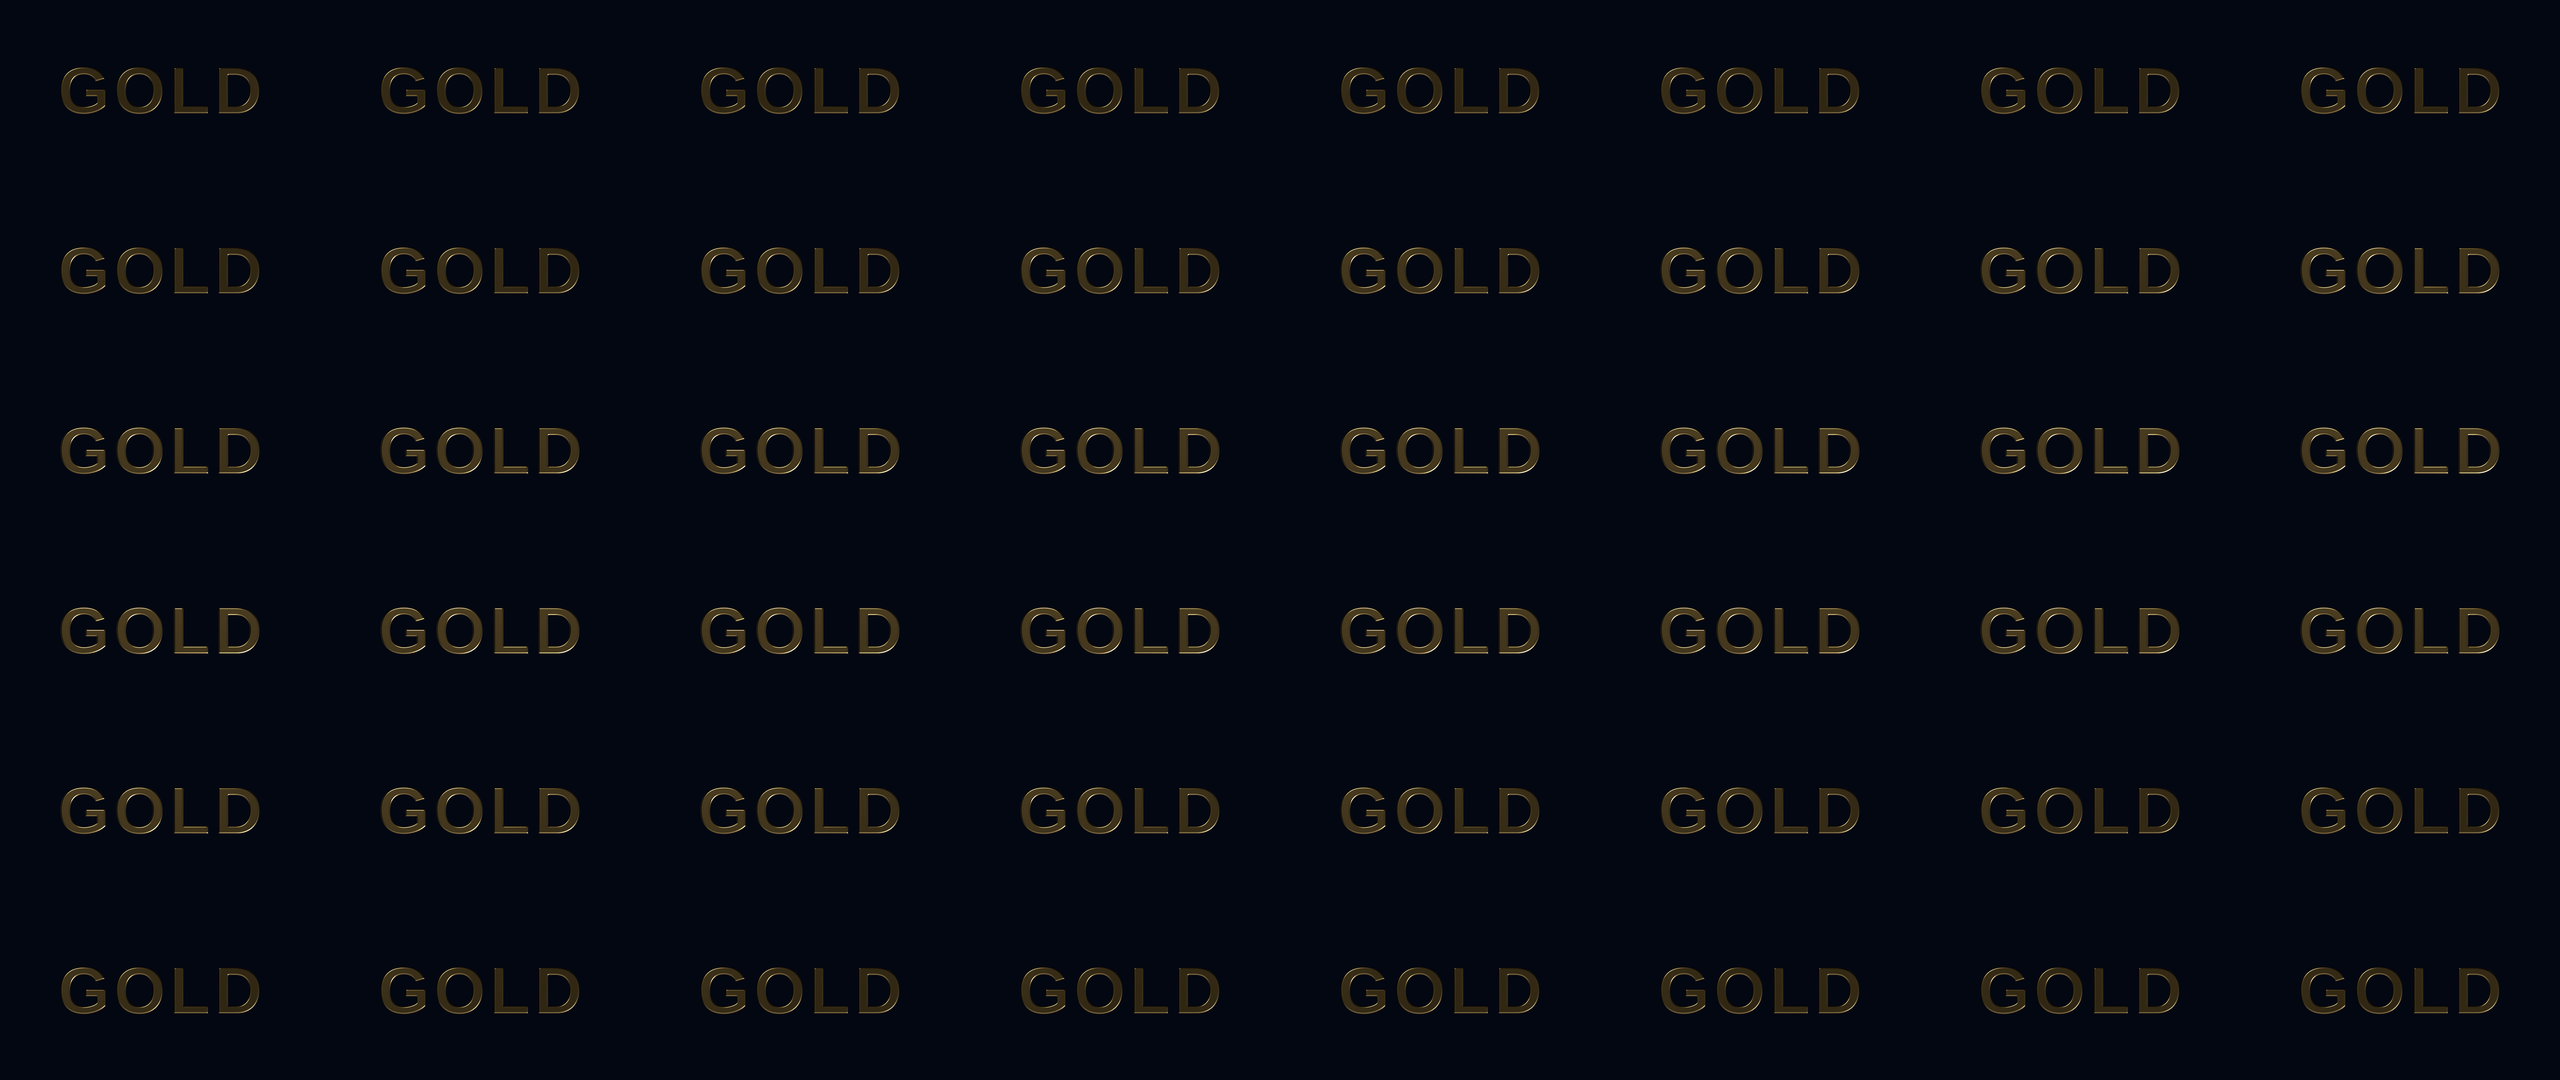
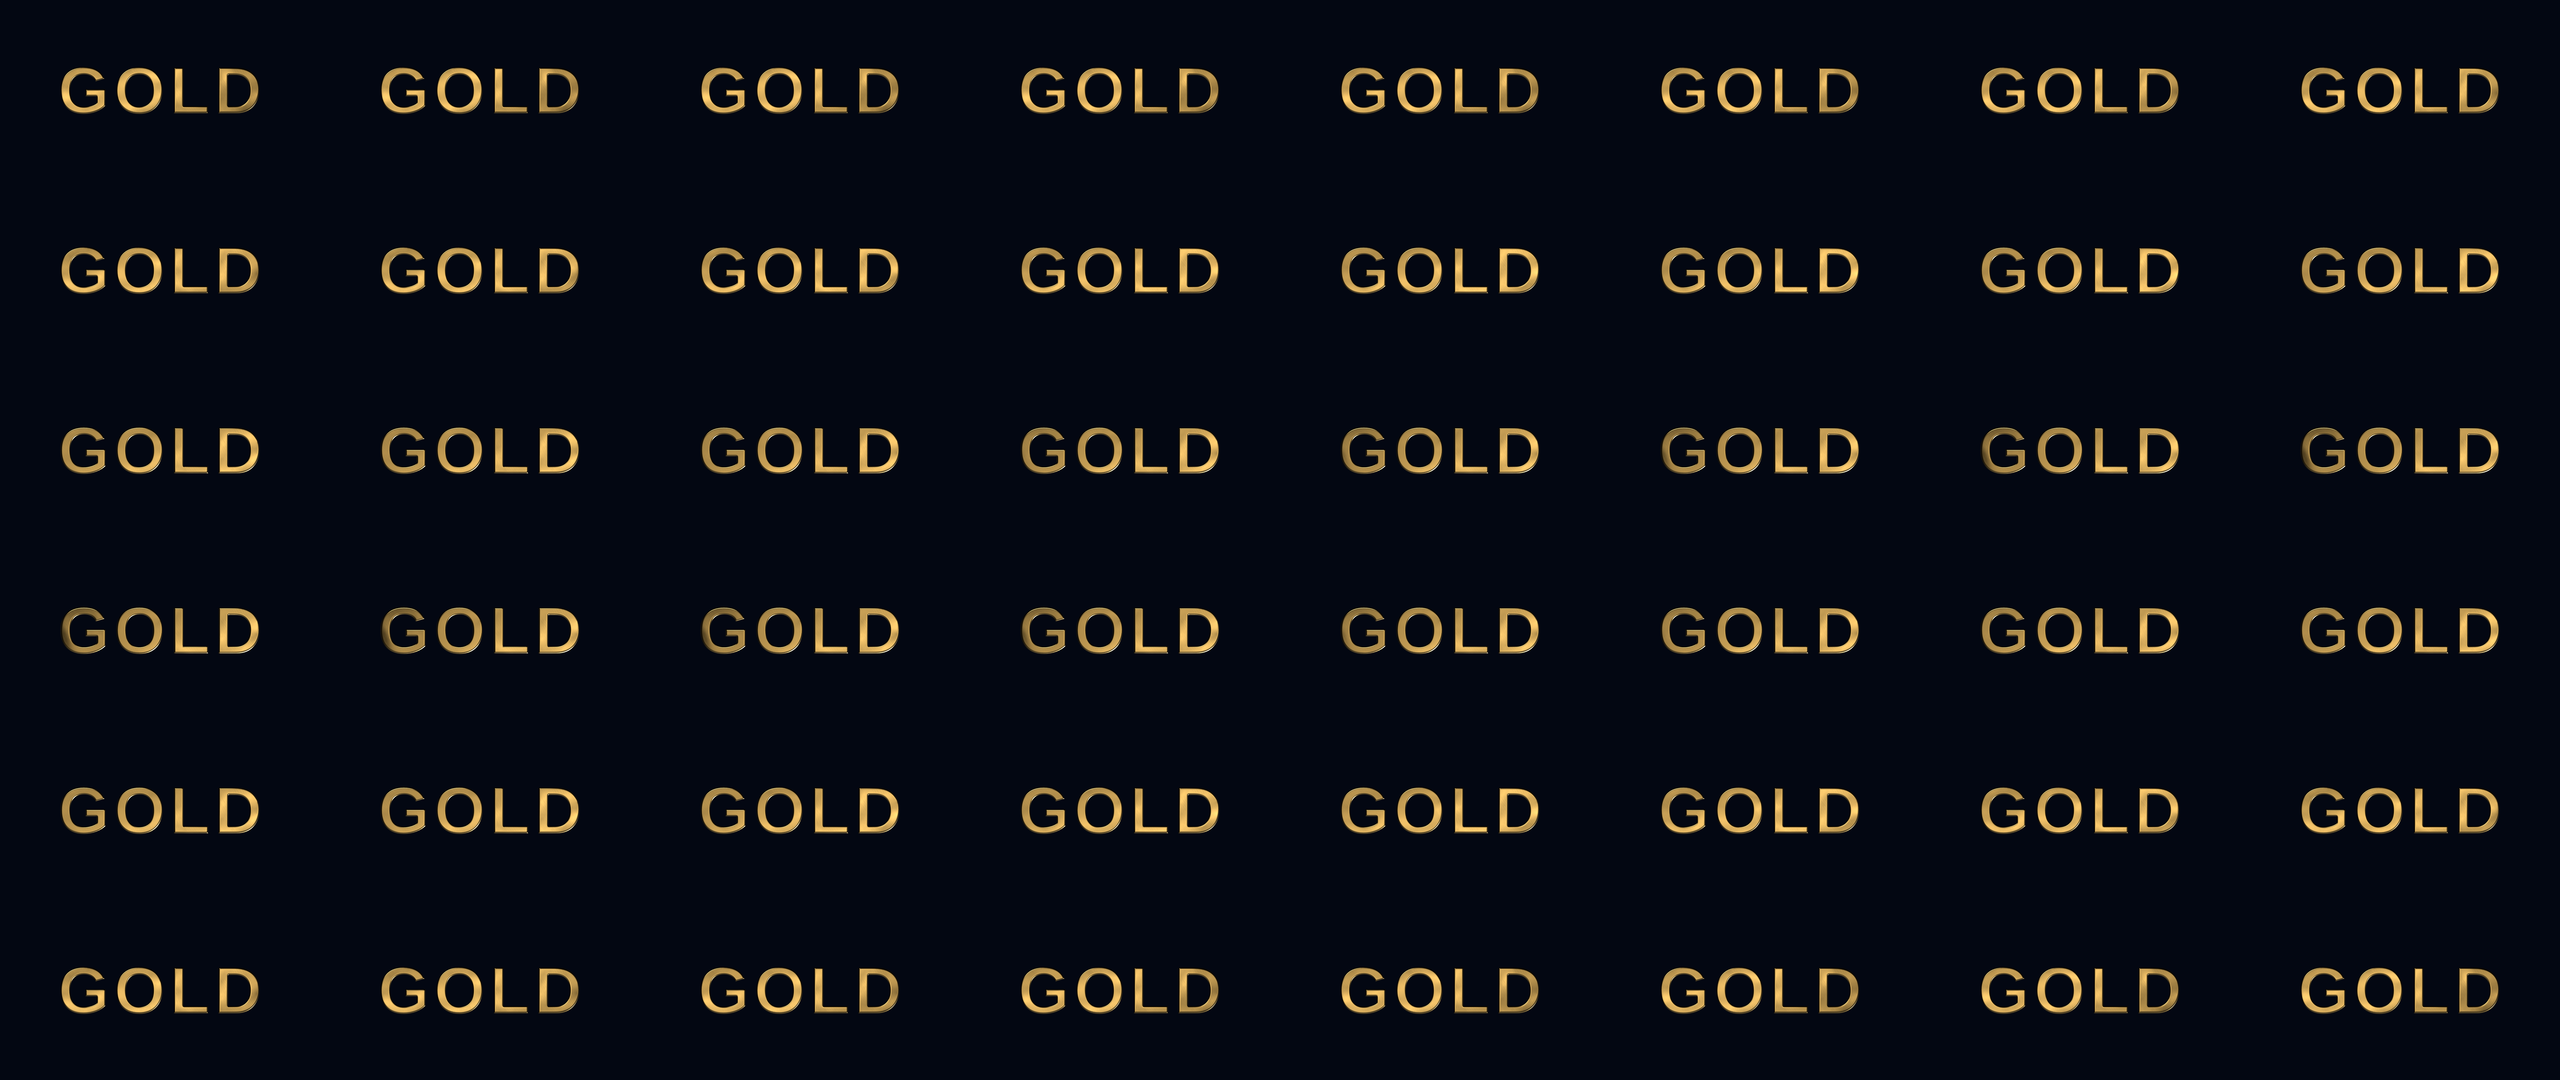
Make metal look like metal by default
A flat metal face mirrors one direction of its surroundings, and the
default studio put nothing bright there, so 2D metal titles had dark,
dull faces. Materials gain Ridges, Imperfections and Brush angle, the
finish plain 3D surfaces already had, shaded in the shared surface
code so looks on 3D text and shapes get them too. A strips studio of
eight tilted strip lights in a dim room gives metal something to
reflect. A new Material, the four metal starters and the library's
metal looks now use the strips with a brushed, lightly ridged and worn
surface, keeping each starter's roughness, grain and brushing so its
named finish stays. With the new settings at zero materials render
exactly as before, saved projects keep their studio, and library
samples of strip-lit metals are still rendered in the plain studio,
where the strips would show as a striped patch. The twelve showcase
previews that contain metal are regenerated.

diff --git a/crates/veylvik-document/src/presets/builtin/appearance.rs b/crates/veylvik-document/src/presets/builtin/appearance.rs
@@ -27,50 +27,53 @@ pub fn material_kind(id: &str) -> Option<MaterialKind> {
 }
 pub fn build(id: &str, b: &mut Builder, source: NodeId) -> Result<NodeId> {
     if let Some(kind) = material_kind(id) {
-        return surface(
-            b,
-            source,
-            crate::nodes::Material {
-                smooth_edges: true,
-                brushing: Default::default(),
-                colours: None,
-                optics: None,
-                studio: Default::default(),
-                kind,
-                scale: 180.0.into(),
-                bevel: 5.0.into(),
-                roughness: (match kind {
-                    MaterialKind::Gold => 0.18,
-                    MaterialKind::Silver => 0.18,
-                    MaterialKind::Bronze => 0.38,
-                    MaterialKind::Aluminium => 0.28,
-                    MaterialKind::Phosphor | MaterialKind::Marble => 0.15,
-                    _ => 0.7,
-                })
-                .into(),
-                lighting: Scalar::Smooth {
-                    keys: [(0, 0.0), (2, 0.12), (4, 0.0)]
-                        .into_iter()
-                        .map(|(ticks, value)| Key {
-                            time: Time { ticks, rate: 1 },
-                            value,
-                            segment: None,
-                        })
-                        .collect(),
-                },
-                grain: (match kind {
-                    MaterialKind::Gold | MaterialKind::Silver => 0.25,
-                    MaterialKind::Bronze => 0.35,
-                    _ => 0.65,
-                })
-                .into(),
-                emission: 1.0.into(),
-                shot: 1.0.into(),
-                normal_strength: 1.0.into(),
-                height_depth: 4.0.into(),
-                normal_directx: false,
+        let mut material = crate::nodes::Material {
+            smooth_edges: true,
+            brushing: Default::default(),
+            colours: None,
+            optics: None,
+            studio: Default::default(),
+            kind,
+            scale: 180.0.into(),
+            bevel: 5.0.into(),
+            roughness: (match kind {
+                MaterialKind::Gold => 0.18,
+                MaterialKind::Silver => 0.18,
+                MaterialKind::Bronze => 0.38,
+                MaterialKind::Aluminium => 0.28,
+                MaterialKind::Phosphor | MaterialKind::Marble => 0.15,
+                _ => 0.7,
+            })
+            .into(),
+            lighting: Scalar::Smooth {
+                keys: [(0, 0.0), (2, 0.12), (4, 0.0)]
+                    .into_iter()
+                    .map(|(ticks, value)| Key {
+                        time: Time { ticks, rate: 1 },
+                        value,
+                        segment: None,
+                    })
+                    .collect(),
             },
-        );
+            grain: (match kind {
+                MaterialKind::Gold | MaterialKind::Silver => 0.25,
+                MaterialKind::Bronze => 0.35,
+                _ => 0.65,
+            })
+            .into(),
+            emission: 1.0.into(),
+            shot: 1.0.into(),
+            normal_strength: 1.0.into(),
+            height_depth: 4.0.into(),
+            normal_directx: false,
+            brush_angle: 0.0.into(),
+            ridges: 0.0.into(),
+            imperfections: 0.0.into(),
+        };
+        if material.is_metal() {
+            material.shine();
+        }
+        return surface(b, source, material);
     }
     let (kind, width, height, y, density) = match id {
         "light_smoke" => (AtmosphereKind::Smoke, 650.0, 470.0, 510.0, 1.7),

diff --git a/crates/veylvik-document/src/nodes/materials.rs b/crates/veylvik-document/src/nodes/materials.rs
@@ -40,6 +40,43 @@ pub struct Material {
     /// The Normal map uses the DirectX convention (green points down).
     #[serde(default)]
     pub normal_directx: bool,
+    /// Turns the grain of brushing, ridges and wear (degrees).
+    #[serde(default = "nothing")]
+    pub brush_angle: Scalar,
+    /// Long shallow undulations along the grain that break reflections into bands.
+    #[serde(default = "nothing")]
+    pub ridges: Scalar,
+    /// Uneven polish, a plate that is not quite flat, and faint scratches.
+    #[serde(default = "nothing")]
+    pub imperfections: Scalar,
+}
+fn nothing() -> Scalar {
+    0.0.into()
+}
+impl Material {
+    /// Whether the material is a metal (by its optics, else its family).
+    pub fn is_metal(&self) -> bool {
+        self.optics.map_or(
+            matches!(
+                self.kind,
+                MaterialKind::Gold
+                    | MaterialKind::Silver
+                    | MaterialKind::Aluminium
+                    | MaterialKind::Bronze
+                    | MaterialKind::LiquidMetal
+            ),
+            |o| o.metallic,
+        )
+    }
+    /// Light and finish a metal so it looks like one: strip lights to reflect, the
+    /// grain turned to cross them, shallow ridges and a little wear. Roughness, grain
+    /// and brushing are left alone, so a named finish (Polished, Brushed, ...) stays.
+    pub fn shine(&mut self) {
+        self.studio = crate::optical::StudioRig::strips();
+        self.brush_angle = 65.0.into();
+        self.ridges = 0.6.into();
+        self.imperfections = 0.3.into();
+    }
 }
 fn one() -> Scalar {
     1.0.into()
@@ -166,6 +203,9 @@ pub static MATERIAL: NodeType = NodeType {
         scalar("shot", "factor", 0.0, 1.0, 0.6),
         scalar("normal_strength", "factor", 0.0, 4.0, 1.0),
         scalar("height_depth", "pixels", 0.0, 64.0, 4.0),
+        scalar("brush_angle", "degrees", -180.0, 180.0, 0.0),
+        scalar("ridges", "factor", 0.0, 1.0, 0.0),
+        scalar("imperfections", "factor", 0.0, 1.0, 0.0),
     ],
 };
 pub static MATERIAL_LAYERS: NodeType = NodeType {
@@ -288,7 +328,10 @@ node!(
         emission,
         shot,
         normal_strength,
-        height_depth
+        height_depth,
+        brush_angle,
+        ridges,
+        imperfections
     ],
     {
         fn validate(&self) -> Result<()> {

diff --git a/crates/veylvik-render/src/studio_lighting.rs b/crates/veylvik-render/src/studio_lighting.rs
@@ -14,10 +14,26 @@ pub(crate) struct Lighting {
     /// PBR maps: normal strength, height depth (pixels), connected maps as bits
     /// (1 normal, 2 roughness, 4 height, 8 DirectX normals), unused.
     pub maps: [f32; 4],
+    /// Finish: ridges, imperfections, the grain's angle (radians), unused.
+    pub finish: [f32; 4],
 }
 /// Uniform size, shared by the bind group layout and per-node buffers.
 pub(crate) const SIZE: u64 = std::mem::size_of::<Lighting>() as u64;
 impl Lighting {
+    /// Take the material's finish settings as they are at `time`.
+    pub(crate) fn set_finish(
+        &mut self,
+        m: &veylvik_document::nodes::Material,
+        time: veylvik_document::Time,
+    ) -> crate::Result<()> {
+        self.finish = [
+            m.ridges.at(time)?.clamp(0.0, 1.0),
+            m.imperfections.at(time)?.clamp(0.0, 1.0),
+            m.brush_angle.at(time)?.to_radians(),
+            0.0,
+        ];
+        Ok(())
+    }
     /// A still of the material at time zero (library samples); `shot` is its Shot
     /// mix (palette[0].w).
     pub fn material(m: &veylvik_document::nodes::Material, shot: f32) -> Self {
@@ -54,6 +70,7 @@ impl Lighting {
             lights: [[[0.; 4]; 4]; 8],
             palette: palette.map(|[r, g, b]| [r, g, b, 0.]),
             maps: [0.; 4],
+            finish: [0.; 4],
         };
         // Recoloured looks (palette[2].w) may shade differently from the family's
         // original colours, which must keep rendering as they always have.

diff --git a/crates/veylvik-document/src/optical.rs b/crates/veylvik-document/src/optical.rs
@@ -272,6 +272,42 @@ pub struct StudioRig {
     pub ambient: f32,
     pub lights: Vec<AreaLight>,
 }
+impl StudioRig {
+    /// A dim room with eight long strip lights in front of the surface, tilted a
+    /// little: what polished and brushed metal needs to reflect to look like metal.
+    /// The strips sit in two groups so their reflections cover the whole frame.
+    pub fn strips() -> Self {
+        let strip = |x: f32, y: f32| AreaLight {
+            enabled: true,
+            position: [x, y, 3.0].into(),
+            rotation: [0.0, 0.0, -14.0].into(),
+            size: [7.0, 0.07],
+            colour: [1.0, 0.9, 0.72].into(),
+            intensity: 2.4.into(),
+            follow: false,
+        };
+        Self {
+            environment: 0.35,
+            environment_rotation: default_environment_rotation(),
+            ambient: 0.0,
+            lights: [-0.8, -0.4, 0.0, 0.4, 0.8]
+                .into_iter()
+                .map(|y| strip(-2.5, y))
+                .chain([-0.2, 0.2, 0.6].into_iter().map(|y| strip(-0.3, y)))
+                .collect(),
+        }
+    }
+}
+impl StudioRig {
+    /// Whether this is the strips studio as `strips` makes it (lights unmoved).
+    pub fn is_strips(&self) -> bool {
+        self.lights.len() == 8
+            && self
+                .lights
+                .iter()
+                .all(|l| l.enabled && l.size == [7.0, 0.07] && !l.position.is_animated())
+    }
+}
 fn default_environment() -> f32 {
     0.65
 }

diff --git a/crates/veylvik-document/src/presets/catalogue.rs b/crates/veylvik-document/src/presets/catalogue.rs
@@ -554,7 +554,7 @@ impl Entry {
     /// The material this look applies, with the library's usual size and motion.
     pub fn material(&self) -> crate::nodes::Material {
         use crate::{Key, Scalar, Time};
-        crate::nodes::Material {
+        let mut material = crate::nodes::Material {
             smooth_edges: true,
             brushing: self.brushing,
             studio: Default::default(),
@@ -592,7 +592,15 @@ impl Entry {
             normal_strength: 1.0.into(),
             height_depth: 4.0.into(),
             normal_directx: false,
+            brush_angle: 0.0.into(),
+            ridges: 0.0.into(),
+            imperfections: 0.0.into(),
+        };
+        // Metals get the strips and finish that make them look like metal.
+        if material.is_metal() {
+            material.shine();
         }
+        material
     }
     /// As a library card.
     pub fn builtin(&self) -> super::builtin::Builtin {

diff --git a/crates/veylvik-document/src/registry.rs b/crates/veylvik-document/src/registry.rs
@@ -297,6 +297,19 @@ impl NodeType {
         for param in self.parameters {
             value[param.name] = param.default_value();
         }
+        // A new Material is gold, lit and finished to look like it.
+        if self.type_id == "material"
+            && let Ok(crate::Operation::Material(mut material)) =
+                serde_json::from_value(value.clone())
+        {
+            material.shine();
+            material.brushing = crate::optical::Brushing::Directional;
+            material.roughness = 0.15.into();
+            material.ridges = 0.7.into();
+            if let Ok(shining) = serde_json::to_value(crate::Operation::Material(material)) {
+                value = shining;
+            }
+        }
         value
     }
     pub fn schema(&self) -> Value {

diff --git a/crates/veylvik-document/src/presets/showcase/art_direction.rs b/crates/veylvik-document/src/presets/showcase/art_direction.rs
@@ -235,6 +235,9 @@ fn gold_fire(a: &mut Art, bg: NodeId, with_fire: bool) -> Result<NodeId> {
             normal_strength: 1.0.into(),
             height_depth: 4.0.into(),
             normal_directx: false,
+            brush_angle: 0.0.into(),
+            ridges: 0.0.into(),
+            imperfections: 0.0.into(),
         }),
         &[("image", mask)],
     );
@@ -564,6 +567,9 @@ pub(super) fn build(id: &str) -> Result<Scene> {
                     normal_strength: 1.0.into(),
                     height_depth: 4.0.into(),
                     normal_directx: false,
+                    brush_angle: 0.0.into(),
+                    ridges: 0.0.into(),
+                    imperfections: 0.0.into(),
                 }),
                 &[("image", mask)],
             )

diff --git a/crates/veylvik-render/src/material_preview.rs b/crates/veylvik-render/src/material_preview.rs
@@ -24,6 +24,18 @@ impl Renderer {
         material: &veylvik_document::nodes::Material,
     ) -> Result<Vec<[f32; 4]>> {
         use veylvik_document::{MaterialKind::*, Operation, Time};
+        // Strip lights are for flat faces: on the round sample they show as a small
+        // striped patch, so a material lit by them is sampled in the plain studio.
+        let plain;
+        let material = if material.studio.is_strips() {
+            plain = veylvik_document::nodes::Material {
+                studio: Default::default(),
+                ..material.clone()
+            };
+            &plain
+        } else {
+            material
+        };
         let zero = Time::new(0, 1)?;
         let at = |s: &veylvik_document::Scalar| s.at(zero);
         if matches!(

diff --git a/crates/veylvik-document/src/presets/builtin/optics.rs b/crates/veylvik-document/src/presets/builtin/optics.rs
@@ -109,6 +109,9 @@ pub fn build(id: &str, b: &mut Builder, source: NodeId) -> Result<NodeId> {
                     normal_strength: 1.0.into(),
                     height_depth: 4.0.into(),
                     normal_directx: false,
+                    brush_angle: 0.0.into(),
+                    ridges: 0.0.into(),
+                    imperfections: 0.0.into(),
                 }),
                 &[("image", shape)],
             );

diff --git a/crates/veylvik-render/src/shadow_lighting.rs b/crates/veylvik-render/src/shadow_lighting.rs
@@ -122,6 +122,7 @@ pub(crate) fn for_node(
         .transpose()?;
     let mut lighting = Lighting::new(m.kind, m.optics, colours, &studio);
     lighting.palette[0][3] = m.shot.at(time)?.clamp(0.0, 1.0);
+    lighting.set_finish(m, time)?;
     if matches!(node.operation, Operation::Material(_)) {
         let bit = |port: &str, bit: u32| u32::from(node.inputs.contains_key(port)) * bit;
         let flags = bit("normal_map", 1)

diff --git a/crates/veylvik-render/tests/appearance.rs b/crates/veylvik-render/tests/appearance.rs
@@ -101,6 +101,9 @@ fn materials_are_distinct_finite_and_preserve_partial_alpha() {
                 normal_strength: 1.0.into(),
                 height_depth: 4.0.into(),
                 normal_directx: false,
+                brush_angle: 0.0.into(),
+                ridges: 0.0.into(),
+                imperfections: 0.0.into(),
             }),
             &[("image", input)],
         );

diff --git a/crates/veylvik-document/src/presets/showcase/surface_paint.rs b/crates/veylvik-document/src/presets/showcase/surface_paint.rs
@@ -27,6 +27,9 @@ pub(super) fn build() -> Result<Scene> {
             normal_strength: 1.0.into(),
             height_depth: 4.0.into(),
             normal_directx: false,
+            brush_angle: 0.0.into(),
+            ridges: 0.0.into(),
+            imperfections: 0.0.into(),
         }),
         &[("image", white)],
     );
